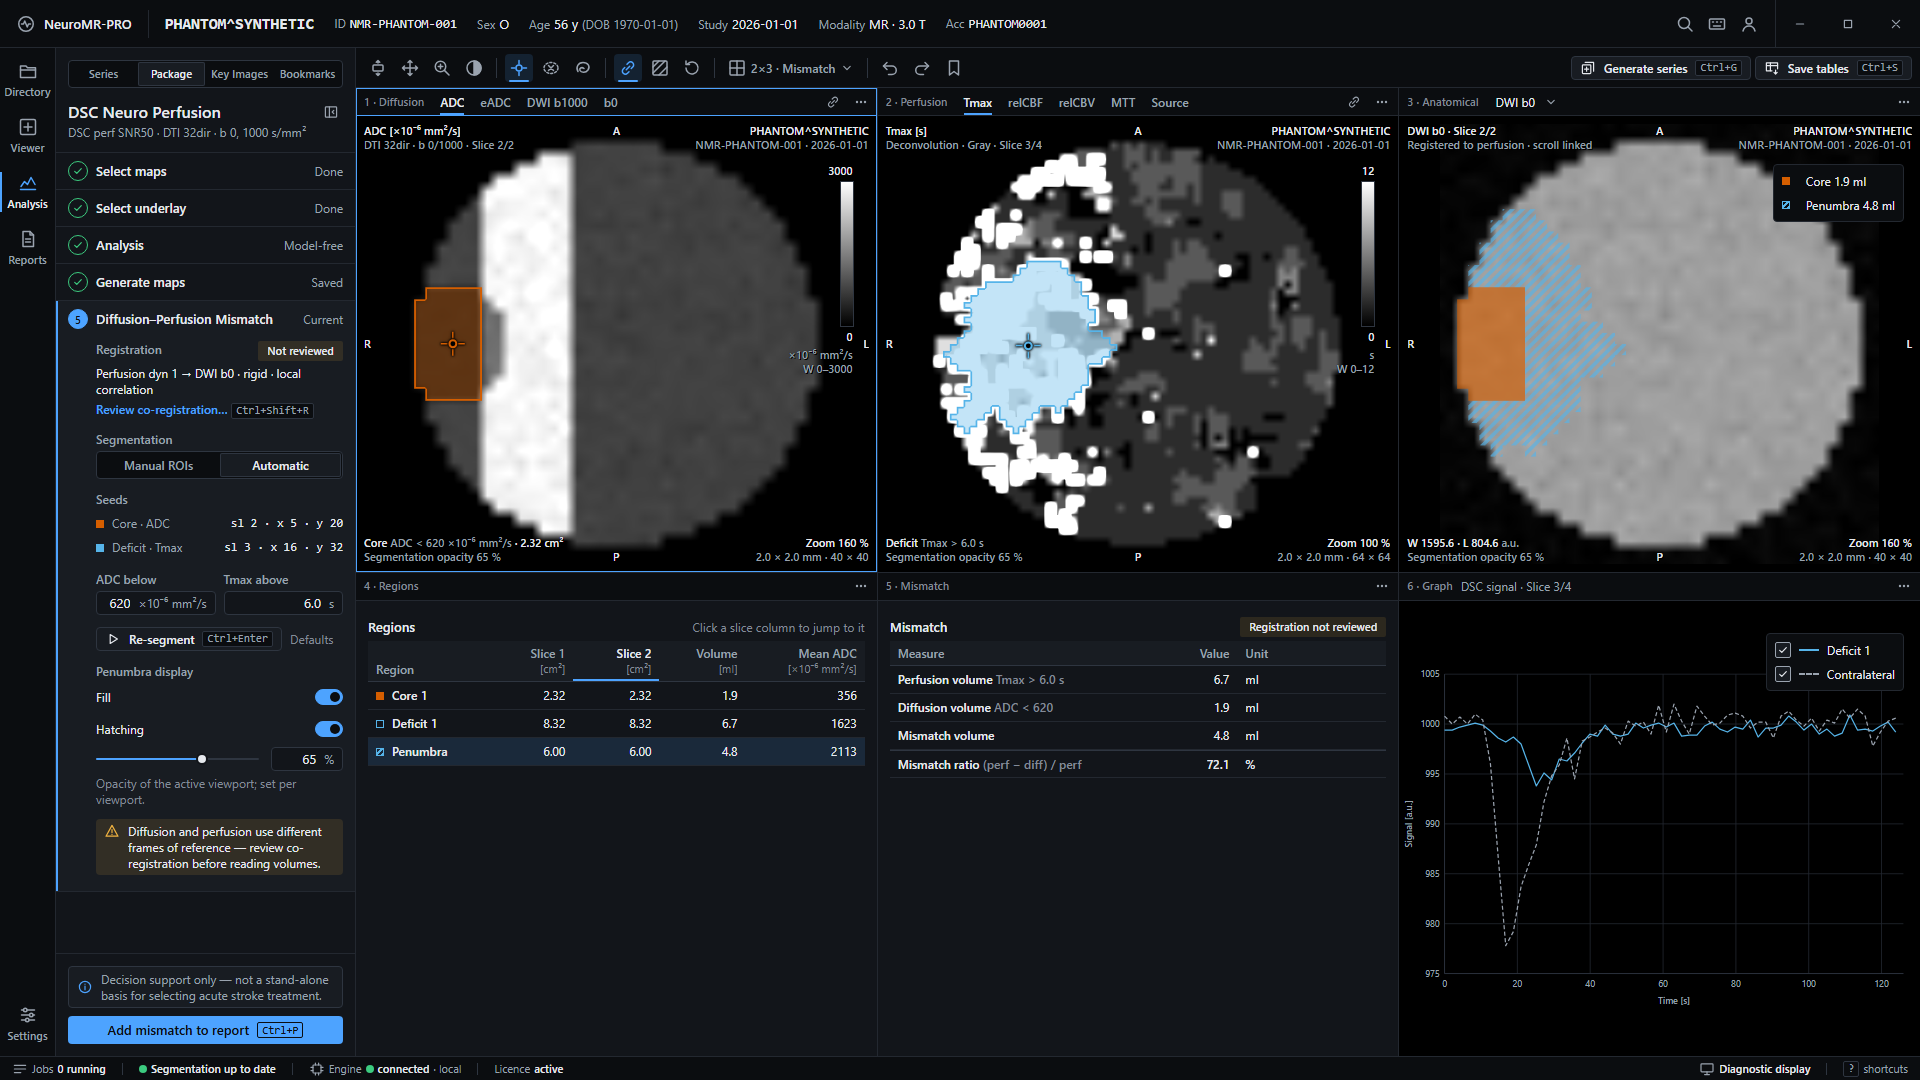
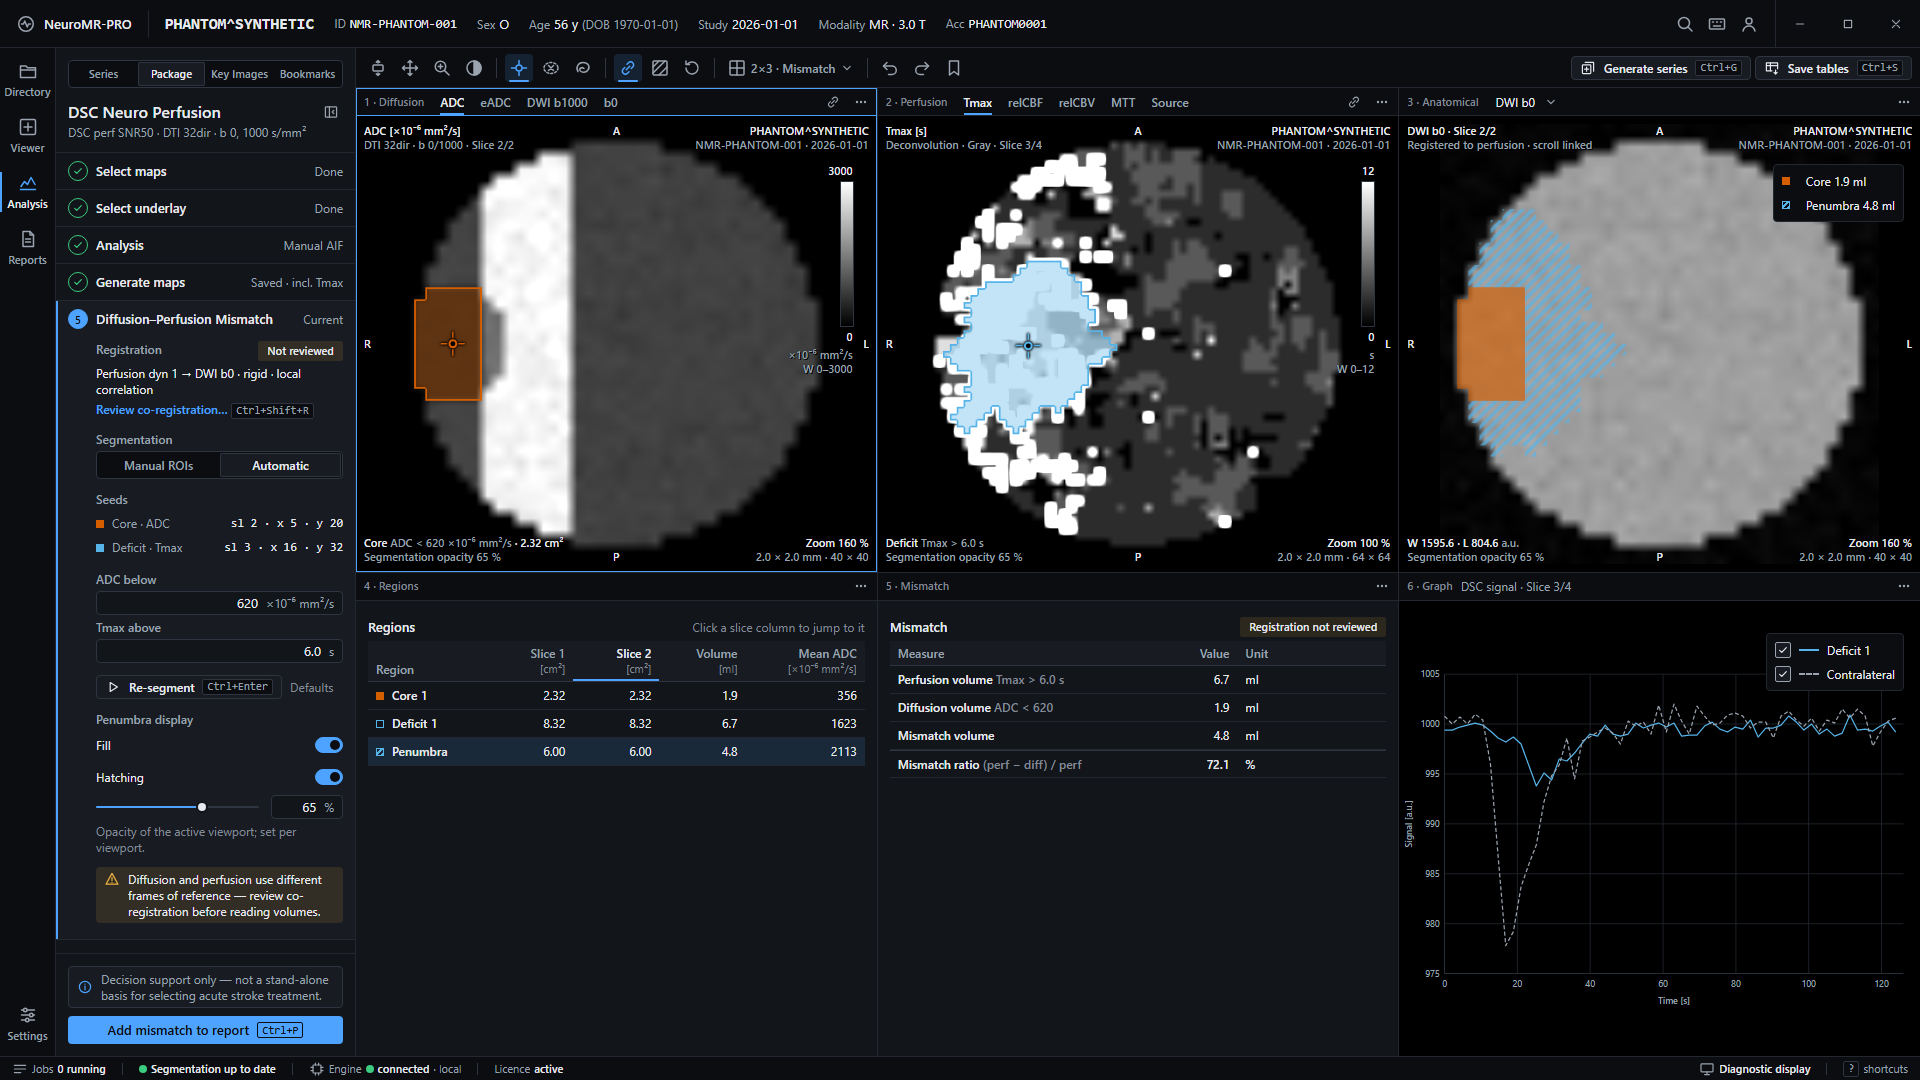
fix(design): show Tmax only with Manual AIF and stack mismatch thresholds
Tmax / Delay is a Manual AIF (deconvolution) output (DSC-013): remove it
from the Model-free screens 02 and 03, and state Manual AIF as the
analysis method in the Mismatch screens, which seed on Tmax. Stack the
threshold fields so values are never truncated.

Changed region(s): [[0.0312, 0.5194, 0.1875, 0.8556], [0.125, 0.2139, 0.1875, 0.275]]

diff --git a/design/screens/05-mismatch-2x2.html b/design/screens/05-mismatch-2x2.html
@@ -125,8 +125,8 @@
       <ol class="steps" data-od-id="task-steps">
         <li class="step step--done"><div class="step__row"><span class="badge" aria-label="Step 1, done"><svg class="ic"><use href="#i-check"/></svg></span><span class="step__title">Select maps</span><span class="step__state t3">Done</span></div></li>
         <li class="step step--done"><div class="step__row"><span class="badge" aria-label="Step 2, done"><svg class="ic"><use href="#i-check"/></svg></span><span class="step__title">Select underlay</span><span class="step__state t3">Done</span></div></li>
-        <li class="step step--done"><div class="step__row"><span class="badge" aria-label="Step 3, done"><svg class="ic"><use href="#i-check"/></svg></span><span class="step__title">Analysis</span><span class="step__state t3">Model-free</span></div></li>
-        <li class="step step--done"><div class="step__row"><span class="badge" aria-label="Step 4, done"><svg class="ic"><use href="#i-check"/></svg></span><span class="step__title">Generate maps</span><span class="step__state t3">Saved</span></div></li>
+        <li class="step step--done"><div class="step__row"><span class="badge" aria-label="Step 3, done"><svg class="ic"><use href="#i-check"/></svg></span><span class="step__title">Analysis</span><span class="step__state t3">Manual AIF</span></div></li>
+        <li class="step step--done"><div class="step__row"><span class="badge" aria-label="Step 4, done"><svg class="ic"><use href="#i-check"/></svg></span><span class="step__title">Generate maps</span><span class="step__state t3">Saved · incl. Tmax</span></div></li>
         <li class="step step--current" aria-current="step" data-od-id="step-mismatch">
           <div class="step__row">
             <span class="badge">5</span>
@@ -153,7 +153,7 @@
                 <div class="kv"><dt><span class="swatch" style="--c: var(--nm-mismatch-deficit)"></span>Deficit · Tmax</dt><dd class="mono">sl 3 · x 16 · y 32</dd></div>
               </dl>
             </div>
-            <div class="grid2" data-od-id="mm-thresholds">
+            <div class="field" data-od-id="mm-thresholds">
               <label class="field">
                 <span class="field__label">ADC below</span>
                 <span class="input input--num input--dense"><span class="input__value">620</span><span class="input__suffix">×10⁻⁶ mm²/s</span></span>

diff --git a/design/screens/05-mismatch-2x3.html b/design/screens/05-mismatch-2x3.html
@@ -125,8 +125,8 @@
       <ol class="steps" data-od-id="task-steps">
         <li class="step step--done"><div class="step__row"><span class="badge" aria-label="Step 1, done"><svg class="ic"><use href="#i-check"/></svg></span><span class="step__title">Select maps</span><span class="step__state t3">Done</span></div></li>
         <li class="step step--done"><div class="step__row"><span class="badge" aria-label="Step 2, done"><svg class="ic"><use href="#i-check"/></svg></span><span class="step__title">Select underlay</span><span class="step__state t3">Done</span></div></li>
-        <li class="step step--done"><div class="step__row"><span class="badge" aria-label="Step 3, done"><svg class="ic"><use href="#i-check"/></svg></span><span class="step__title">Analysis</span><span class="step__state t3">Model-free</span></div></li>
-        <li class="step step--done"><div class="step__row"><span class="badge" aria-label="Step 4, done"><svg class="ic"><use href="#i-check"/></svg></span><span class="step__title">Generate maps</span><span class="step__state t3">Saved</span></div></li>
+        <li class="step step--done"><div class="step__row"><span class="badge" aria-label="Step 3, done"><svg class="ic"><use href="#i-check"/></svg></span><span class="step__title">Analysis</span><span class="step__state t3">Manual AIF</span></div></li>
+        <li class="step step--done"><div class="step__row"><span class="badge" aria-label="Step 4, done"><svg class="ic"><use href="#i-check"/></svg></span><span class="step__title">Generate maps</span><span class="step__state t3">Saved · incl. Tmax</span></div></li>
         <li class="step step--current" aria-current="step" data-od-id="step-mismatch">
           <div class="step__row">
             <span class="badge">5</span>
@@ -153,7 +153,7 @@
                 <div class="kv"><dt><span class="swatch" style="--c: var(--nm-mismatch-deficit)"></span>Deficit · Tmax</dt><dd class="mono">sl 3 · x 16 · y 32</dd></div>
               </dl>
             </div>
-            <div class="grid2" data-od-id="mm-thresholds">
+            <div class="field" data-od-id="mm-thresholds">
               <label class="field">
                 <span class="field__label">ADC below</span>
                 <span class="input input--num input--dense"><span class="input__value">620</span><span class="input__suffix">×10⁻⁶ mm²/s</span></span>

diff --git a/design/screens/03-dsc-perfusion.html b/design/screens/03-dsc-perfusion.html
@@ -112,7 +112,7 @@
             <span class="badge" aria-label="Step 1, done"><svg class="ic"><use href="#i-check"/></svg></span>
             <span class="step__title">Select maps</span>
             <span class="step__state t3">Done</span>
-            <span class="step__sum">relCBV · relCBF · MTT · TTP · T0 · Tmax</span>
+            <span class="step__sum">relCBV · relCBF · MTT · TTP · T0</span>
           </div>
         </li>
         <li class="step step--done" data-od-id="step-select-underlay">
@@ -266,7 +266,6 @@
           <button class="tab" role="tab">MTT</button>
           <button class="tab" role="tab">TTP</button>
           <button class="tab" role="tab">T0</button>
-          <button class="tab" role="tab">Tmax</button>
         </div>
         <span class="spacer"></span>
         <button class="ibtn ibtn--sm" aria-label="Viewport menu (right-click)"><svg class="ic ic--sm"><use href="#i-more"/></svg></button>

diff --git a/design/screens/02-workspace-shell.html b/design/screens/02-workspace-shell.html
@@ -246,7 +246,6 @@
           <button class="tab is-active" role="tab" aria-selected="true">relCBV</button>
           <button class="tab" role="tab">relCBF</button>
           <button class="tab" role="tab">MTT</button>
-          <button class="tab" role="tab">Tmax</button>
         </div>
         <span class="spacer"></span>
         <button class="ibtn ibtn--sm" aria-label="Viewport menu (right-click)"><svg class="ic ic--sm"><use href="#i-more"/></svg></button>
